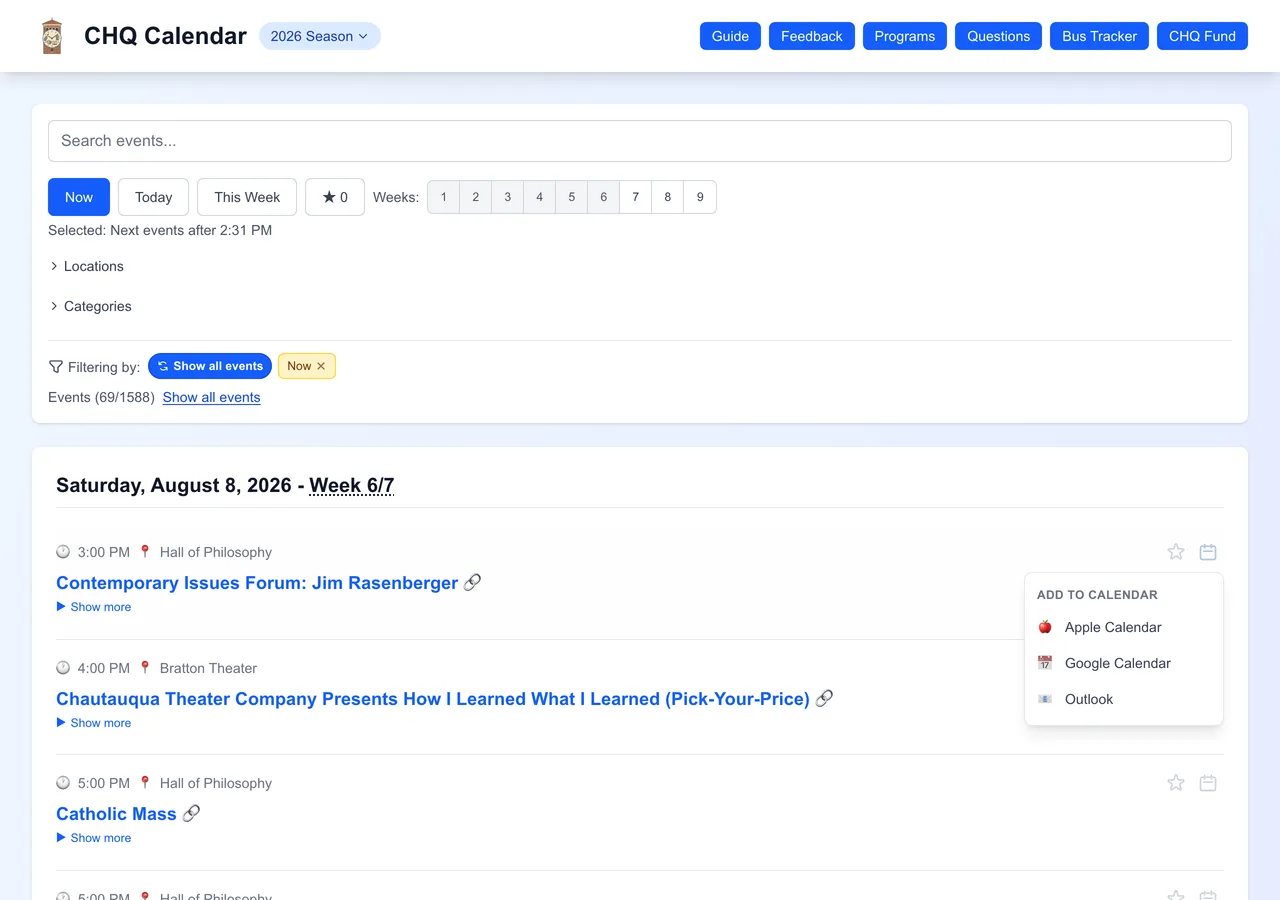
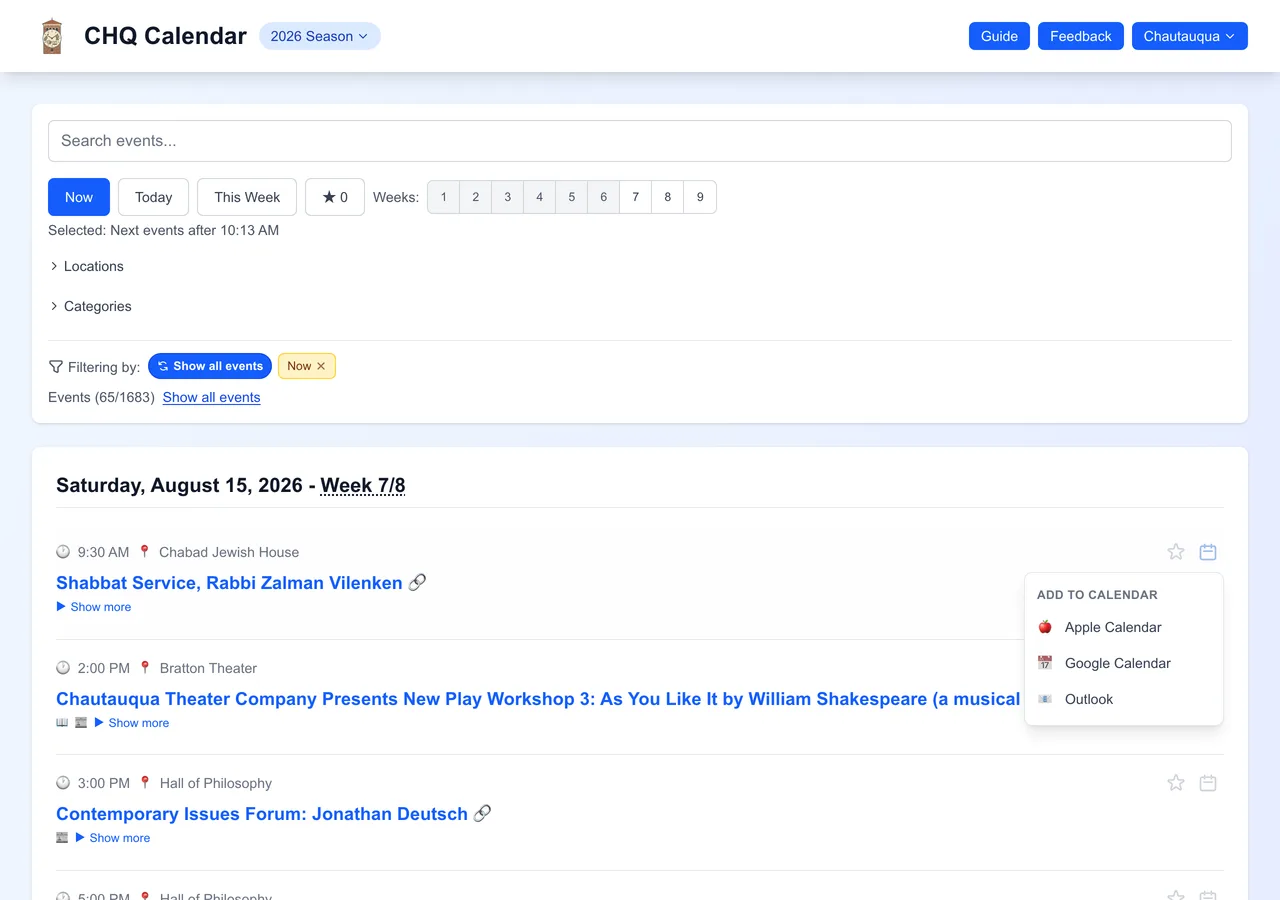
fix(web): regenerate /about/web screenshots, plus two review nits
The guide's six web screenshots are full-page 1280x900 captures, so
every one of them showed the old seven-button header. Regenerated all
12 WebP files via `npm run about:screenshots:web`.

Captured against a local build of this branch rather than the script's
default (production), which still serves the old header until this
lands. The build was served on the machine's LAN address rather than
localhost on purpose: `getWebcalUrl` returns null for `localhost` and
`127.0.0.1`, which would have dropped the Apple Calendar option from
the 05-calendar shot — an option the /about/web copy explicitly
describes. Verified after capture that all three calendar targets are
still present, and that the header now reads
Guide / Feedback / Chautauqua on one row.

No guide prose needed changing: nothing in `aboutContent.ts` describes
the header quick links. The "three buttons" line is about the date
filters, and "switch years from the header" is still true.

Also addresses the two findings Copilot filed in its collapsed
"Suppressed comments" block while reporting no new comments:

- The trigger gets `type="button"`. It defaulted to `submit`, so
  toggling the menu inside any future <form> would have submitted it.
- `setApart`'s doc comment claimed items are "pulled to the top". The
  component does not reorder; callers order `items` themselves. The
  comment now says so.

596 frontend tests pass.

Claude-Session: https://claude.ai/code/session_01BC7xH2ZGV573RJVKXKoDuh

diff --git a/frontend/src/components/layout/HeaderMenu.tsx b/frontend/src/components/layout/HeaderMenu.tsx
@@ -19,9 +19,10 @@ export interface HeaderMenuItem {
    */
   newTab?: boolean;
   /**
-   * Pulled to the top of the menu and followed by a separator. Used for
-   * "Get the app", which is neither one of this app's routes nor a
-   * Chautauqua resource and so belongs in neither group.
+   * Styled as distinct and followed by a separator. Does NOT reorder — items
+   * render in the order given, so a caller wanting this item first must place
+   * it first. Used for "Get the app", which is neither one of this app's
+   * routes nor a Chautauqua resource and so belongs in neither group.
    */
   setApart?: boolean;
 }
@@ -96,6 +97,7 @@ export function HeaderMenu({ label, ariaLabel, items, triggerClassName }: Header
     <div className="relative" ref={containerRef}>
       <button
         ref={triggerRef}
+        type="button"
         onClick={() => setIsOpen(!isOpen)}
         aria-expanded={isOpen}
         // Only while the panel exists: the id is absent from the document

diff --git a/frontend/src/components/layout/__tests__/HeaderMenu.test.tsx b/frontend/src/components/layout/__tests__/HeaderMenu.test.tsx
@@ -14,6 +14,14 @@ afterEach(() => {
 });
 
 describe('HeaderMenu', () => {
+  // Without an explicit type the trigger defaults to `submit`, so toggling
+  // the menu would submit any form this component is ever placed inside.
+  it('declares the trigger as a plain button, not a submit', () => {
+    render(<HeaderMenu label="Chautauqua" ariaLabel="Chautauqua links" items={items} />);
+
+    expect(screen.getByRole('button', { name: /Chautauqua/ })).toHaveAttribute('type', 'button');
+  });
+
   it('starts collapsed, with the trigger reporting its state', () => {
     render(<HeaderMenu label="Chautauqua" ariaLabel="Chautauqua links" items={items} />);
 
